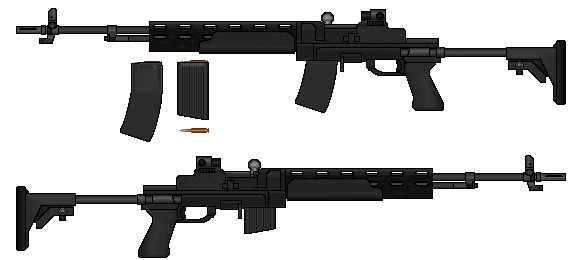
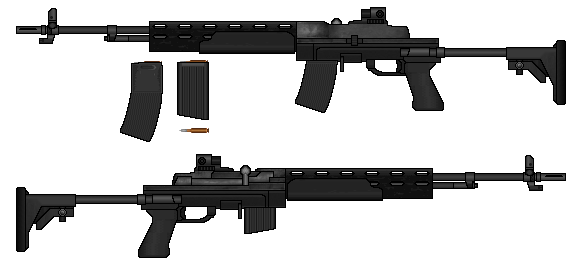
Add files via upload

Changed region(s): [[0.4966, 0.0308, 0.7138, 0.1846], [0.2793, 0.5846, 0.4966, 0.7385], [0.031, 0.7077, 0.1241, 0.8923]]

diff --git a/WIM_DG_Arms.html b/WIM_DG_Arms.html
@@ -141,7 +141,7 @@ function includeHTML() {
 
 <Table width=1325 cellpadding=0 border=1 cellspacing=0>
 <TR>
-	<TH style="width:1325px; color:#EFEFEF; font-size:16px; font-family:Calibri;" colspan=6>M2 Pistol</TH>
+	<TH style="width:1325px; color:#EFEFEF; font-size:16px; font-family:Calibri;" colspan=6>M-2 Pistol</TH>
 </TR>
 <TR>
 	<TH style="width:700px" rowspan=11><img src=DG_M2Pistol.png></TH>
@@ -396,6 +396,214 @@ function includeHTML() {
 </TR>
 <TR>
 	<TD width=1325 colspan=6><center><table width=1310><TR><TD>The M-4 Carbine is a cut-down M-1 Rifle, and is issued to larger Dragons that would be in the same billets that an M-3 SMG would be issued, as an option, to account for their greater size. This "Carbine" to a Dragon is a full sized Assault Rifle to the rest of NEIGHTO.</TD></TR></Table></TD>
+</TR>
+</Table>
+
+<HR style="width:800px;">
+
+<Table width=1325 cellpadding=0 border=1 cellspacing=0>
+<TR>
+	<TH style="width:1325px; color:#EFEFEF; font-size:16px; font-family:Calibri;" colspan=6>M-5 "Ebon"</TH>
+</TR>
+<TR>
+	<TH style="width:700px" rowspan=11><img src=DG_M5DMR.png></TH>
+</TR>
+<TR>
+	<TD style="width:175px; color:#EFEFEF; font-size:16px; font-family:Courier;"><b>WEAPON TYPE:</TD>
+    <TD style="width:450px; color:#F0F0F0; font-size:14px; font-family:Courier;">Designated Marksman Rifle</TD>
+</TR>
+<TR>
+	<TD style="width:175px; color:#EFEFEF; font-size:16px; font-family:Courier;"><b>MANUFACTURER:</TD>
+	<TD style="width:450px; color:#F0F0F0; font-size:14px; font-family:Courier;">Dragonhearth Arsenal</TD>
+</TR>
+<TR>
+	<TD style="width:175px; color:#EFEFEF; font-size:16px; font-family:Courier;"><b>CALIBER:</TD>
+	<TD style="width:450px; color:#F0F0F0; font-size:14px; font-family:Courier;">7x40mm NEIGHTO</TD>
+</TR>
+<TR>
+	<TD style="width:175px; color:#EFEFEF; font-size:16px; font-family:Courier;"><b>CAPACITY:</TD>
+	<TD style="width:450px; color:#F0F0F0; font-size:14px; font-family:Courier;">20/30 Round Detachable Box Magazine</TD>
+</TR>
+<TR>
+	<TD style="width:175px; color:#EFEFEF; font-size:16px; font-family:Courier;"><b>EFFECTIVE RANGE:</TD>
+	<TD style="width:450px; color:#F0F0F0; font-size:14px; font-family:Courier;">750 meters</TD>
+</TR>
+<TR>
+	<TD style="width:175px; color:#EFEFEF; font-size:16px; font-family:Courier;"><b>BARREL LENGTH:</TD>
+	<TD style="width:450px; color:#F0F0F0; font-size:14px; font-family:Courier;">558mm/22 inches</TD>
+</TR>
+<TR>
+	<TD style="width:175px; color:#EFEFEF; font-size:16px; font-family:Courier;"><b>OVERALL LENGTH:</TD>
+	<TD style="width:450px; color:#F0F0F0; font-size:14px; font-family:Courier;">1.1m/43.3 inches (stock extended)<BR>970mm/38.2 inches (stock retracted)</TD>
+</TR>
+<TR>
+	<TD style="width:175px; color:#EFEFEF; font-size:16px; font-family:Courier;"><b>OVERALL HEIGHT:</TD>
+	<TD style="width:450px; color:#F0F0F0; font-size:14px; font-family:Courier;">210mm/8.26 inches</TD>
+</TR>
+<TR>
+	<TD style="width:175px; color:#EFEFEF; font-size:16px; font-family:Courier;"><b>TOTAL MASS:</TD>
+	<TD style="width:450px; color:#F0F0F0; font-size:14px; font-family:Courier;">12lbs/5.44kg</TD>
+</TR>
+<TR>
+</TR>
+<TR>
+	<TD width=1325 colspan=6><center><table width=1310><TR><TD>The Ebon is an accurized M-1, with a bipod and adjustable cheek rest. It also features, by default, a 1-6x40mm optic for extended range shooting. The barrel length of the M-5 and the scope, combined, easily allow the M-5 to reach out to the maximum range of the sniper loads for the 7mm NEIGHTO round.</TD></TR></Table></TD>
+</TR>
+</Table>
+
+<HR style="width:800px;">
+
+<Table width=1325 cellpadding=0 border=1 cellspacing=0>
+<TR>
+	<TH style="width:1325px; color:#EFEFEF; font-size:16px; font-family:Calibri;" colspan=6>M-7 "Jack"</TH>
+</TR>
+<TR>
+	<TH style="width:700px" rowspan=11><img src=DG_M6SR.png></TH>
+</TR>
+<TR>
+	<TD style="width:175px; color:#EFEFEF; font-size:16px; font-family:Courier;"><b>WEAPON TYPE:</TD>
+    <TD style="width:450px; color:#F0F0F0; font-size:14px; font-family:Courier;">Precision Rifle</TD>
+</TR>
+<TR>
+	<TD style="width:175px; color:#EFEFEF; font-size:16px; font-family:Courier;"><b>MANUFACTURER:</TD>
+	<TD style="width:450px; color:#F0F0F0; font-size:14px; font-family:Courier;">Dragonhearth Arsenal</TD>
+</TR>
+<TR>
+	<TD style="width:175px; color:#EFEFEF; font-size:16px; font-family:Courier;"><b>CALIBER:</TD>
+	<TD style="width:450px; color:#F0F0F0; font-size:14px; font-family:Courier;">8x60mm NEIGHTO</TD>
+</TR>
+<TR>
+	<TD style="width:175px; color:#EFEFEF; font-size:16px; font-family:Courier;"><b>CAPACITY:</TD>
+	<TD style="width:450px; color:#F0F0F0; font-size:14px; font-family:Courier;">10/20 Round Detachable Box Magazine</TD>
+</TR>
+<TR>
+	<TD style="width:175px; color:#EFEFEF; font-size:16px; font-family:Courier;"><b>EFFECTIVE RANGE:</TD>
+	<TD style="width:450px; color:#F0F0F0; font-size:14px; font-family:Courier;">900 meters (APIT)<BR>1000 meters + (Sniper Load)</TD>
+</TR>
+<TR>
+	<TD style="width:175px; color:#EFEFEF; font-size:16px; font-family:Courier;"><b>BARREL LENGTH:</TD>
+	<TD style="width:450px; color:#F0F0F0; font-size:14px; font-family:Courier;">546mm/21.5 inches</TD>
+</TR>
+<TR>
+	<TD style="width:175px; color:#EFEFEF; font-size:16px; font-family:Courier;"><b>OVERALL LENGTH:</TD>
+	<TD style="width:450px; color:#F0F0F0; font-size:14px; font-family:Courier;">1.1m/43.3 inches (stock extended)<BR>970mm/38.2 inches (stock retracted)</TD>
+</TR>
+<TR>
+	<TD style="width:175px; color:#EFEFEF; font-size:16px; font-family:Courier;"><b>OVERALL HEIGHT:</TD>
+	<TD style="width:450px; color:#F0F0F0; font-size:14px; font-family:Courier;">210mm/8.26 inches</TD>
+</TR>
+<TR>
+	<TD style="width:175px; color:#EFEFEF; font-size:16px; font-family:Courier;"><b>TOTAL MASS:</TD>
+	<TD style="width:450px; color:#F0F0F0; font-size:14px; font-family:Courier;">12lbs/5.44kg</TD>
+</TR>
+<TR>
+</TR>
+<TR>
+	<TD width=1325 colspan=6><center><table width=1310><TR><TD>The Jack is the rifle designed to comply with the NEIGHTO Light Sniper Program. An adaptation of the "Grand" Rifle, it's rechambered, and the receiver of the Grand was designed from the ground up to accomodate this caliber change.</TD></TR></Table></TD>
+</TR>
+</Table>
+
+<HR style="width:800px;">
+
+
+<Table width=1325 cellpadding=0 border=1 cellspacing=0>
+<TR>
+	<TH style="width:1325px; color:#EFEFEF; font-size:16px; font-family:Calibri;" colspan=6>M-6 "Strike"</TH>
+</TR>
+<TR>
+	<TH style="width:700px" rowspan=10><img src=DG_M6MG.png></TH>
+</TR>
+<TR>
+	<TD style="width:175px; color:#EFEFEF; font-size:16px; font-family:Courier;"><b>WEAPON TYPE:</TD>
+    <TD style="width:450px; color:#F0F0F0; font-size:14px; font-family:Courier;">Medium/General Purpose Machine Gun</TD>
+</TR>
+<TR>
+	<TD style="width:175px; color:#EFEFEF; font-size:16px; font-family:Courier;"><b>MANUFACTURER:</TD>
+	<TD style="width:450px; color:#F0F0F0; font-size:14px; font-family:Courier;">Saco Industries</TD>
+</TR>
+<TR>
+	<TD style="width:175px; color:#EFEFEF; font-size:16px; font-family:Courier;"><b>CALIBER:</TD>
+	<TD style="width:450px; color:#F0F0F0; font-size:14px; font-family:Courier;">7x40mm NEIGHTO</TD>
+</TR>
+<TR>
+	<TD style="width:175px; color:#EFEFEF; font-size:16px; font-family:Courier;"><b>CAPACITY:</TD>
+	<TD style="width:450px; color:#F0F0F0; font-size:14px; font-family:Courier;">Non-Disintegrating Metal Linked Belt, 50/120/240rd containers</TD>
+</TR>
+<TR>
+	<TD style="width:175px; color:#EFEFEF; font-size:16px; font-family:Courier;"><b>EFFECTIVE RANGE:</TD>
+	<TD style="width:450px; color:#F0F0F0; font-size:14px; font-family:Courier;">400 meters (point target) - 800 meters (area target)</TD>
+</TR>
+<TR>
+	<TD style="width:175px; color:#EFEFEF; font-size:16px; font-family:Courier;"><b>BARREL LENGTH:</TD>
+	<TD style="width:450px; color:#F0F0F0; font-size:14px; font-family:Courier;">460mm/18 inches (Assault Barrel)<BR>558mm/22 inches (Long Barrel)</TD>
+</TR>
+<TR>
+	<TD style="width:175px; color:#EFEFEF; font-size:16px; font-family:Courier;"><b>OVERALL LENGTH:</TD>
+	<TD style="width:450px; color:#F0F0F0; font-size:14px; font-family:Courier;">932mm/36.7 inches (Assault Barrel)<BR>1032mm/40.6 inches (Long Barrel)</TD>
+</TR>
+<TR>
+	<TD style="width:175px; color:#EFEFEF; font-size:16px; font-family:Courier;"><b>OVERALL HEIGHT:</TD>
+	<TD style="width:450px; color:#F0F0F0; font-size:14px; font-family:Courier;">279mm/11 inches</TD>
+</TR>
+<TR>
+	<TD style="width:175px; color:#EFEFEF; font-size:16px; font-family:Courier;"><b>TOTAL MASS:</TD>
+	<TD style="width:450px; color:#F0F0F0; font-size:14px; font-family:Courier;">18.2lbs/8.25kg (Assault Barrel)<BR>21.5lbs/9.75kg (Long Barrel)</TD>
+</TR>
+<TR>
+	<TD width=1325 colspan=6><center><table width=1310><TR><TD>The M-6 Strike Machine Gun uses a different recoil system than the Abrams, and its derivatives, giving it a simpler mechanism, but a larger one. No problem for a Dragon, of course. This larger machine gun does have a shorter "Assault" barrel, for special operations teams, and others that need the sustained fire ability, but less mass. It has a quick-change barrel system not unlike the Abrams, and can technically attach an Abrams barrel, but the gas systems won't align, making such a configuration a single-shot weapon.</TD></TR></Table></TD>
+</TR>
+</Table>
+
+<HR style="width:800px;">
+
+
+<Table width=1325 cellpadding=0 border=1 cellspacing=0>
+<TR>
+	<TH style="width:1325px; color:#EFEFEF; font-size:16px; font-family:Calibri;" colspan=6>Model 500 "Persuader"</TH>
+</TR>
+<TR>
+	<TH style="width:700px" rowspan=10><img src=DG_M500.png></TH>
+</TR>
+<TR>
+	<TD style="width:175px; color:#EFEFEF; font-size:16px; font-family:Courier;"><b>WEAPON TYPE:</TD>
+    <TD style="width:450px; color:#F0F0F0; font-size:14px; font-family:Courier;">Combat Shotgun (Pump-Action)</TD>
+</TR>
+<TR>
+	<TD style="width:175px; color:#EFEFEF; font-size:16px; font-family:Courier;"><b>MANUFACTURERS:</TD>
+	<TD style="width:450px; color:#F0F0F0; font-size:14px; font-family:Courier;">Mossville Arms Co.</TD>
+</TR>
+<TR>
+	<TD style="width:175px; color:#EFEFEF; font-size:16px; font-family:Courier;"><b>CALIBER:</TD>
+	<TD style="width:450px; color:#F0F0F0; font-size:14px; font-family:Courier;">12 Gauge, 76mm/3 inch</TD>
+</TR>
+<TR>
+	<TD style="width:175px; color:#EFEFEF; font-size:16px; font-family:Courier;"><b>CAPACITY:</TD>
+	<TD style="width:450px; color:#F0F0F0; font-size:14px; font-family:Courier;">7 + 1 Shell Fixed Tube Magazine</TD>
+</TR>
+<TR>
+	<TD style="width:175px; color:#EFEFEF; font-size:16px; font-family:Courier;"><b>EFFECTIVE RANGE:</TD>
+	<TD style="width:450px; color:#F0F0F0; font-size:14px; font-family:Courier;">50/120 meters (shell dependant)</TD>
+</TR>
+<TR>
+	<TD style="width:175px; color:#EFEFEF; font-size:16px; font-family:Courier;"><b>BARREL LENGTH:</TD>
+	<TD style="width:450px; color:#F0F0F0; font-size:14px; font-family:Courier;">470mm/18.5 inches</TD>
+</TR>
+<TR>
+	<TD style="width:175px; color:#EFEFEF; font-size:16px; font-family:Courier;"><b>OVERALL LENGTH:</TD>
+	<TD style="width:450px; color:#F0F0F0; font-size:14px; font-family:Courier;">880mm/34.65 inches</TD>
+</TR>
+<TR>
+	<TD style="width:175px; color:#EFEFEF; font-size:16px; font-family:Courier;"><b>OVERALL HEIGHT:</TD>
+	<TD style="width:450px; color:#F0F0F0; font-size:14px; font-family:Courier;">118mm/4.65 inches</TD>
+</TR>
+<TR>
+	<TD style="width:175px; color:#EFEFEF; font-size:16px; font-family:Courier;"><b>TOTAL MASS:</TD>
+	<TD style="width:450px; color:#F0F0F0; font-size:14px; font-family:Courier;">8.2lbs/3.72kg</TD>
+</TR>
+<TR>
+</TR>
+<TR>
+	<TD width=1325 colspan=6><center><table width=1310><TR><TD>The Persuader Shotgun comes in both pistol grip and rifle stock configurations. It does NOT use the standard NEIGHTO detachable tube magazine, but it does use the standard Brass shells issued by NEIGHTO. It's also a pump-action shotgun, not a semi-auto. This sets it distinctly apart from every other Shotgun in NEIGHTO. However, despite being larger, it's the same weight as other similar shotguns. The Dragons have also created a special incendiary shell that sends a shower of flaming magnesium over a 15-meter cone in front of the weapon, called the "Dragon's Breath" shell.</TD></TR></Table></TD>
 </TR>
 </Table>
 
